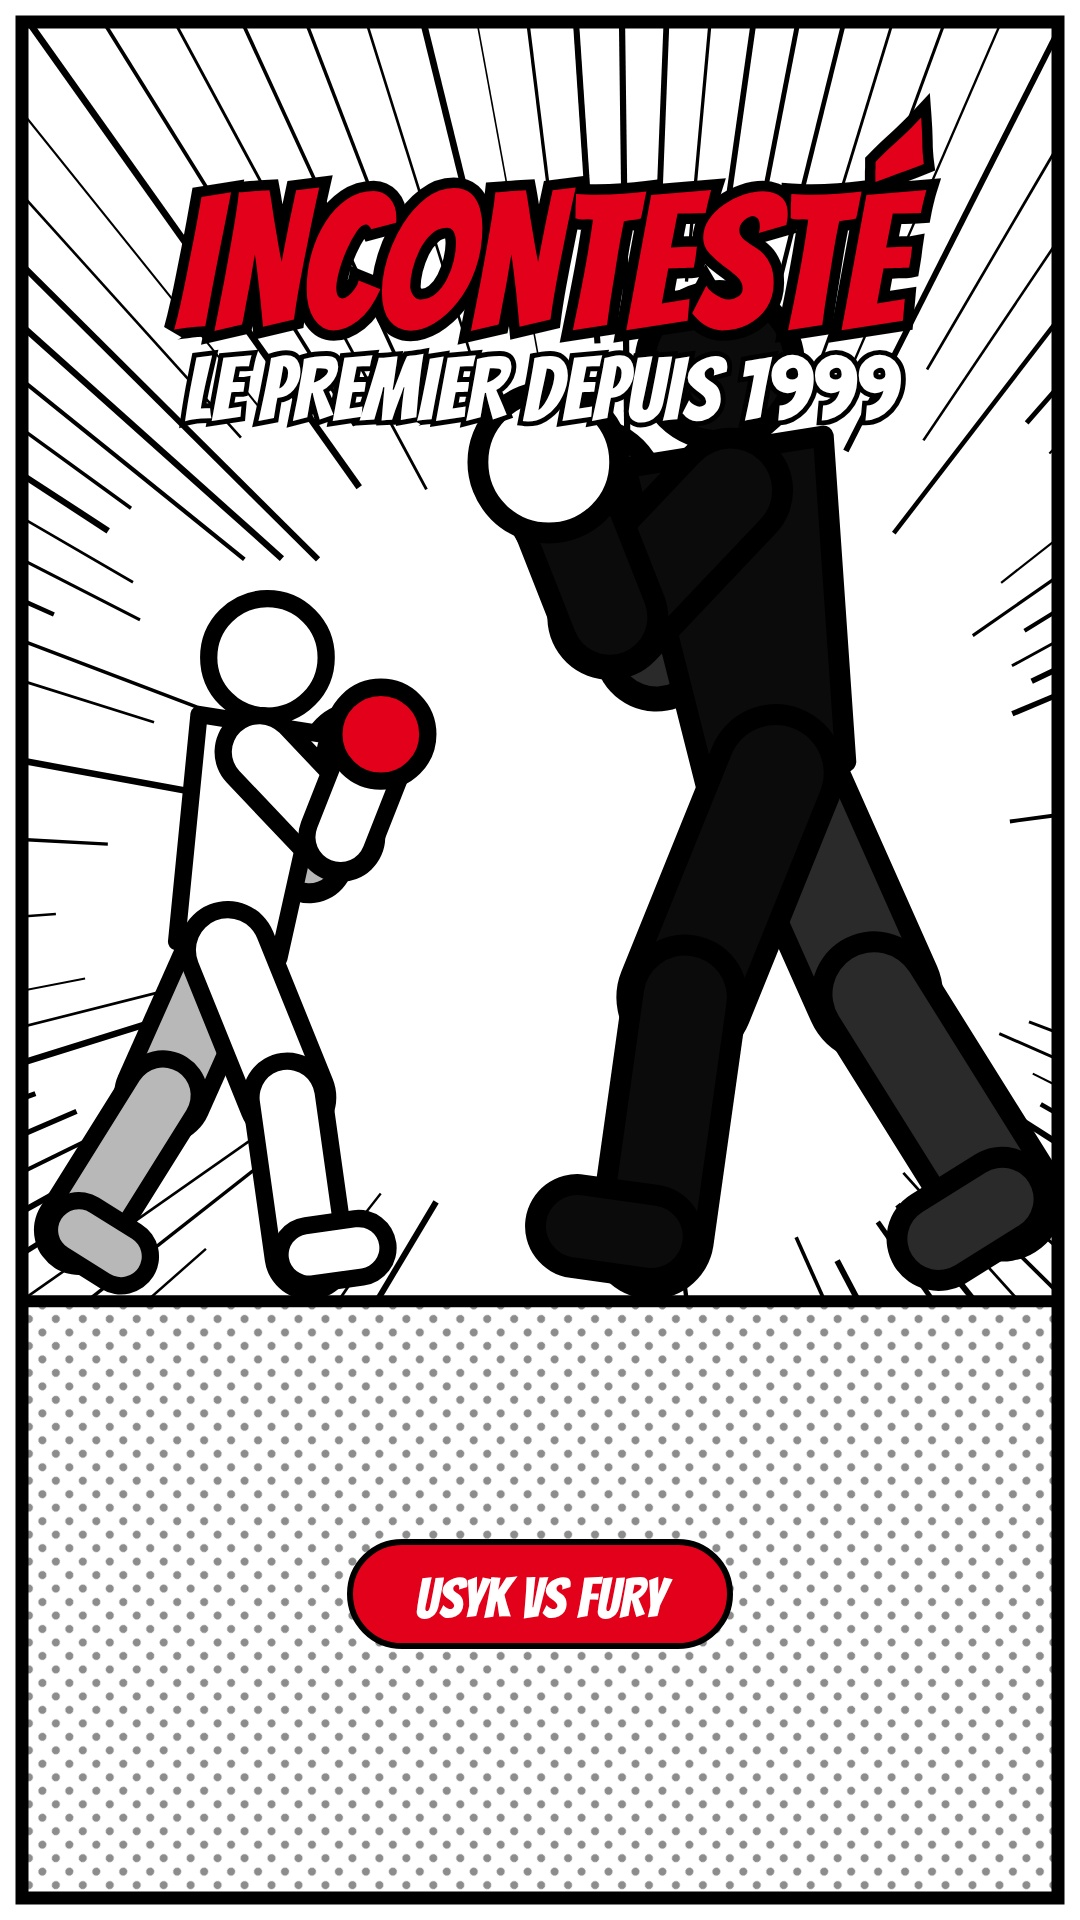
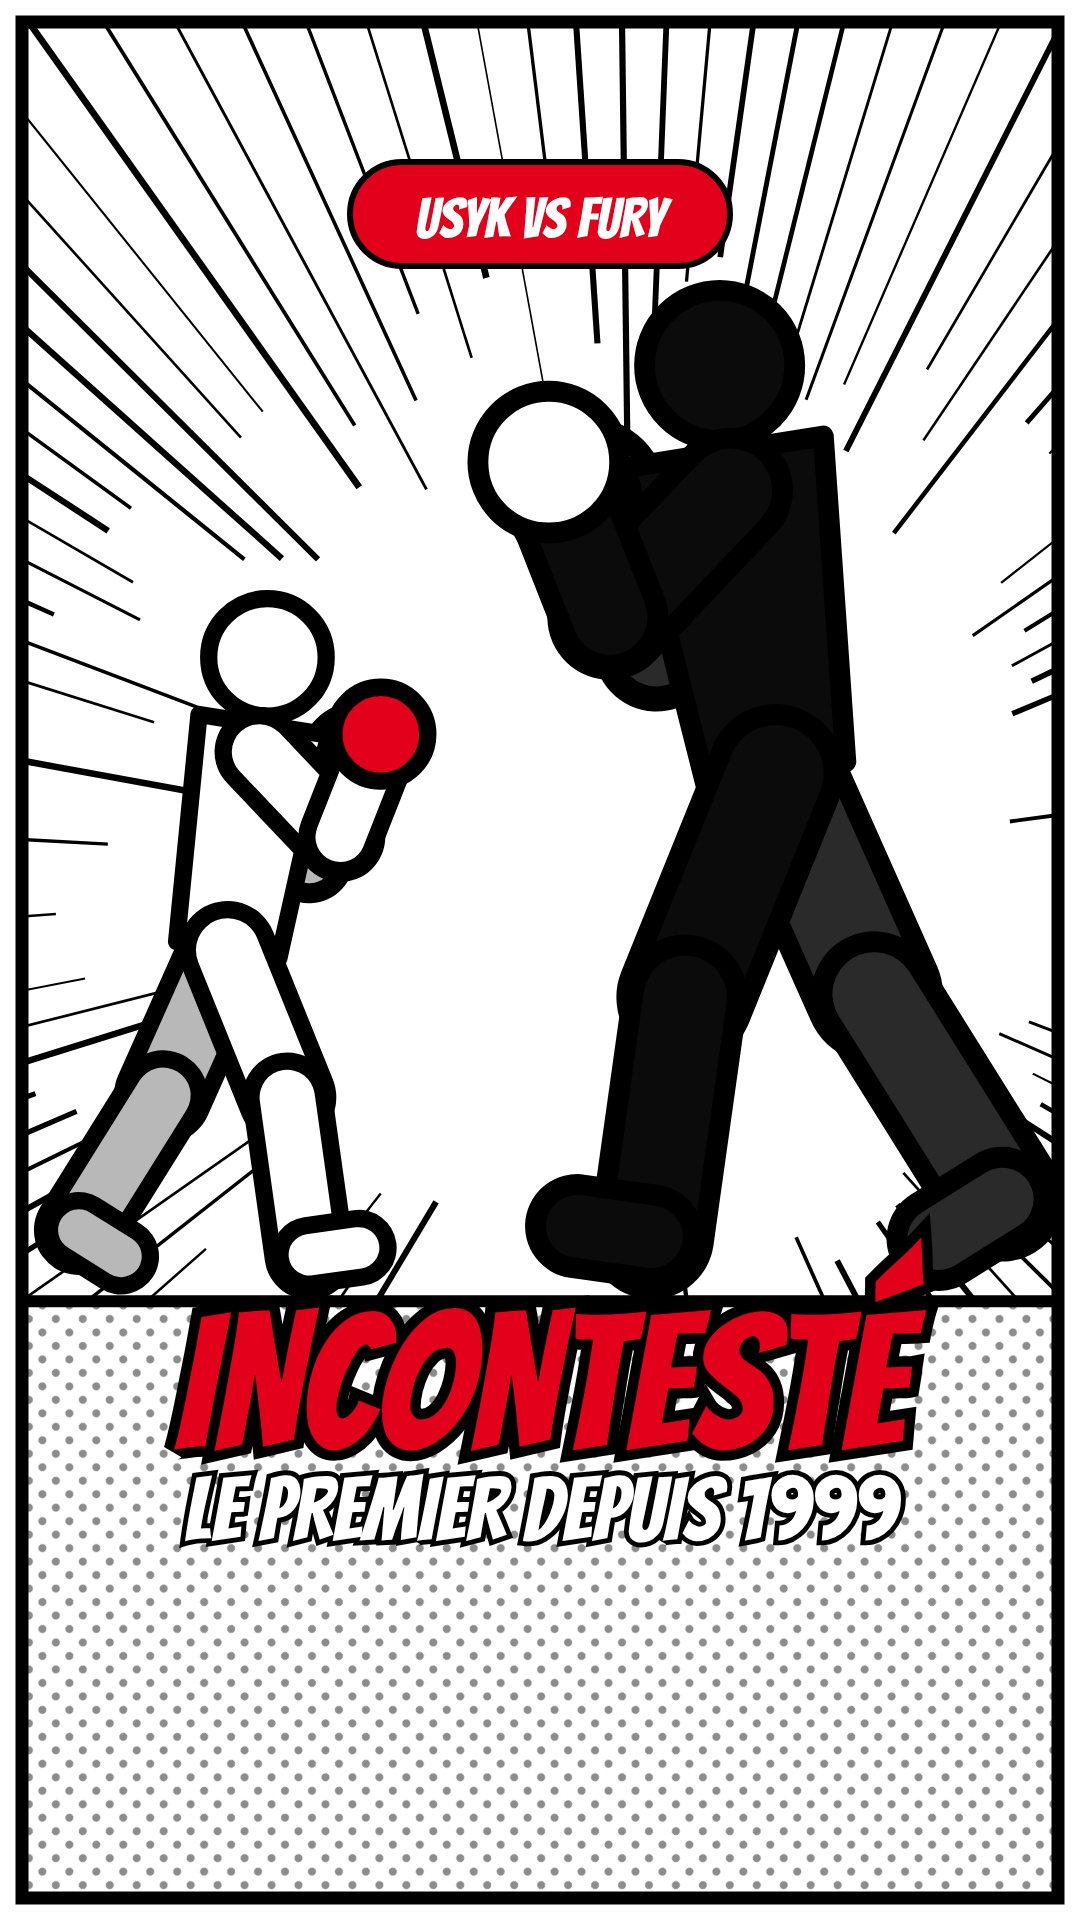
Couverture : titre et pastille positionnables ; couverture Usyk
Claude-Session: https://claude.ai/code/session_01KWiDVRcEjyRGAgBu9HbvnJ

Changed region(s): [[0.1528, 0.625, 0.8861, 0.875], [0.1528, 0.0625, 0.8861, 0.2188]]

diff --git a/src/comic/ComicCover.tsx b/src/comic/ComicCover.tsx
@@ -15,11 +15,13 @@ export type ComicCoverProps = {
   title: string[]; // *ligne* = en jaune et plus grosse
   badge?: string;
   keep?: string[]; // types de lettrage de la case à garder (ex. ["sfx"])
+  titleY?: number; // position verticale du titre (défaut 330 ; ~1420 = sur la bande de sol)
+  badgeY?: number; // position de la pastille (défaut 1600)
   comic?: Comic;
 };
 
 // Zone sûre : la grille du profil recadre en 3:4 au centre (y ≈ 240 à 1680).
-export const ComicCover: React.FC<ComicCoverProps> = ({comic, panel: id, t = 0.5, title, badge, keep = ['sfx']}) => {
+export const ComicCover: React.FC<ComicCoverProps> = ({comic, panel: id, t = 0.5, title, badge, keep = ['sfx'], titleY = 330, badgeY = 1600}) => {
   useFonts();
   if (!comic) return null;
   const theme = THEMES[comic.theme ?? 'comic'] ?? THEMES.comic;
@@ -29,7 +31,7 @@ export const ComicCover: React.FC<ComicCoverProps> = ({comic, panel: id, t = 0.5
   const panel = {...src, fx: [], elements: src.elements.filter((e) => !lettering.has(e.type) || keep.includes(e.type))};
   const font = flat ? 'Montserrat, Arial Black, sans-serif' : COMIC_FONT;
   const weight = flat ? 900 : 400;
-  let y = 330;
+  let y = titleY;
   return (
     <ThemeContext.Provider value={theme}>
       <AbsoluteFill style={{backgroundColor: '#fff'}}>
@@ -63,7 +65,7 @@ export const ComicCover: React.FC<ComicCoverProps> = ({comic, panel: id, t = 0.5
             })}
           </g>
           {badge ? (
-            <g transform="translate(540 1600)" filter={flat ? 'url(#fl-shadow)' : undefined}>
+            <g transform={`translate(540 ${badgeY})`} filter={flat ? 'url(#fl-shadow)' : undefined}>
               <rect x={-190} y={-58} width={380} height={104} rx={52} fill={theme.name === 'manga' ? '#E3001B' : '#FF5A5F'} stroke={flat ? 'none' : '#000'} strokeWidth={6} />
               <text x={0} y={18} textAnchor="middle" fontFamily={font} fontWeight={weight} fontSize={56} fill="#fff">
                 {badge}
